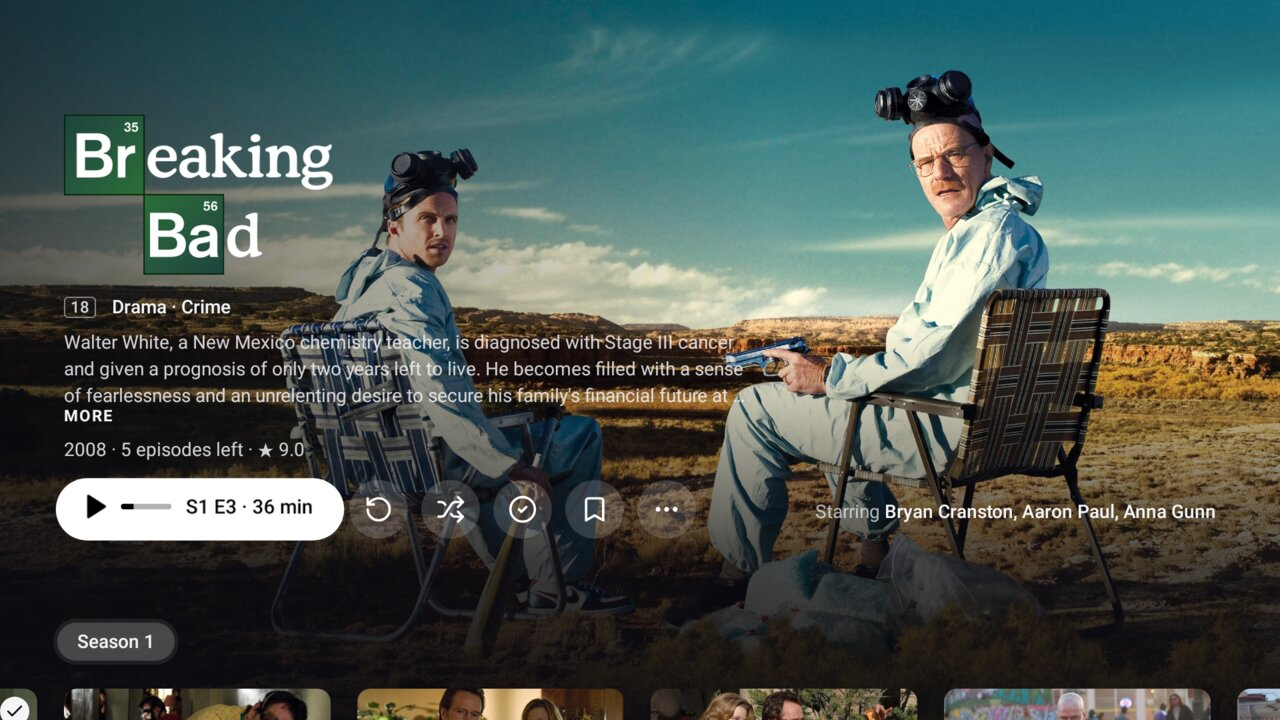
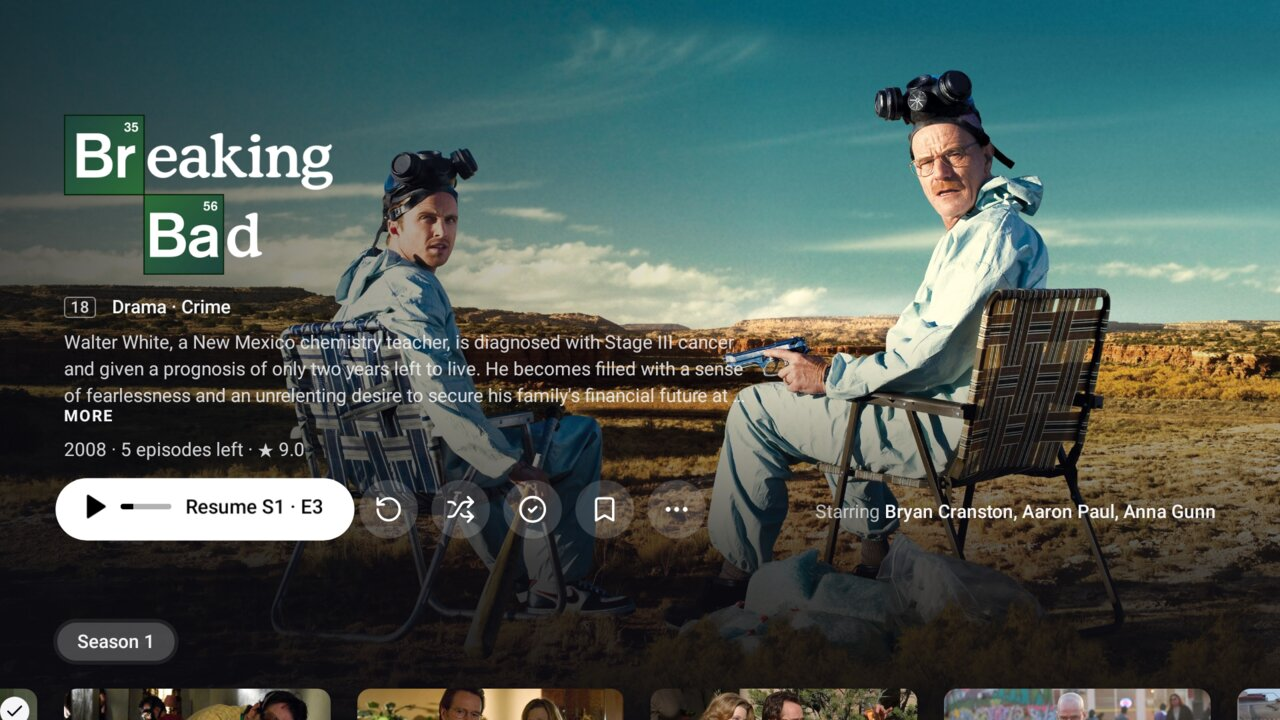
Write episode numbers as "S1 · E4" everywhere (#51)
Follows the owner's rule for every Arc app (arc-media-server#493): "S1 · E4" with "·" as the only
separator, "Special 3" for season 0, the number alone under a card's show name, and
"S1 · E4 · Pilot" where the episode is the subject.

- One helper, episodeCode(season, episode), writes the number; episodeWithTitle adds the name.
- The player's title line, the title page's Play/Resume/Start watching button, Home's hero and
  summary, and the player's Info and Episodes cards use it.
- Landscape cards no longer add the episode's name to the number line.
- Strings: new episode_special and episode_with_title; action_start_watching takes the number;
  action_play_se, action_left_episode and player_episode_line are removed.
- EpisodeNumbersTest pins the wording. The README's player and show pictures are retaken.

Changed region(s): [[0.125, 0.6722, 0.5625, 0.7639]]

diff --git a/app/src/main/java/org/arcmediaserver/android/ui/player/PlayerOsdView.kt b/app/src/main/java/org/arcmediaserver/android/ui/player/PlayerOsdView.kt
@@ -78,6 +78,8 @@ import org.arcmediaserver.android.ui.browse.runtimeText
 import org.arcmediaserver.android.ui.components.ArcIcons
 import org.arcmediaserver.android.ui.components.Artwork
 import org.arcmediaserver.android.ui.components.FormatBadges
+import org.arcmediaserver.android.ui.components.episodeCode
+import org.arcmediaserver.android.ui.components.episodeWithTitle
 import org.arcmediaserver.android.ui.components.RoundIconButton
 import org.arcmediaserver.android.ui.components.formatLabels
 import org.arcmediaserver.android.ui.components.requestWhenReady
@@ -89,7 +91,7 @@ import java.util.Locale
 
 /**
  * The controls over the picture, in the Apple TV app's arrangement (arc-apple PlayerOSD):
- * - the show's name large at the bottom left, with "S2, E4 • the episode's name" above it (a
+ * - the show's name large at the bottom left, with "S2 · E4 · the episode's name" above it (a
  *   film: its title alone), and three round buttons at the right of it: Playback, Audio and
  *   Subtitles, each opening its menu above it;
  * - the timeline, split at the chapters, with an upright marker, the time played under the marker
@@ -252,13 +254,13 @@ fun PlayerControls(
     }
 }
 
-/** "S2, E4 • Name" for an episode, else null (a film shows its title alone). */
+/** "S2 · E4 · Name" for an episode, else null (a film shows its title alone). */
 @Composable
 internal fun episodeLine(item: Item): String? {
     if (!item.isEpisode) return null
     // Outside the show's order (Arc's 0 and 0): the name alone.
-    val (s, e) = item.orderNumbers ?: return item.title
-    return stringResource(R.string.player_episode_line, s, e, item.title)
+    if (item.orderNumbers == null) return item.title
+    return episodeWithTitle(item)
 }
 
 @Composable
@@ -472,7 +474,7 @@ private fun InfoCard(state: PlayerUiState, plan: PlaybackPlan?, onRestart: () ->
             Spacer(Modifier.height(10.dp))
             Row(verticalAlignment = Alignment.CenterVertically) {
                 val parts = buildList {
-                    if (item.isEpisode) item.orderNumbers?.let { (s, e) -> add(stringResource(R.string.episode_code, s, e)) }
+                    if (item.isEpisode) item.orderNumbers?.let { (s, e) -> add(episodeCode(s, e)) }
                     item.runtimeMin?.takeIf { it > 0 }?.let { add(runtimeText(it)) }
                     infoDate(item.releaseDate)?.let(::add)
                 }
@@ -575,7 +577,7 @@ private fun EpisodesCard(state: PlayerUiState, onPlayEpisode: (Item) -> Unit, en
                                 Icon(ArcIcons.Play, contentDescription = null, tint = Color.White, modifier = Modifier.size(10.dp))
                                 Spacer(Modifier.width(5.dp))
                             }
-                            if (numbered) Text(stringResource(R.string.episode_code, s!!, e!!), style = MaterialTheme.typography.labelMedium, color = Color.White)
+                            if (numbered) Text(episodeCode(s!!, e!!), style = MaterialTheme.typography.labelMedium, color = Color.White)
                         }
                     }
                     Text(ep.title, style = MaterialTheme.typography.titleSmall, maxLines = 1, overflow = TextOverflow.Ellipsis, modifier = Modifier.padding(horizontal = 10.dp, vertical = 8.dp))

diff --git a/app/src/main/java/org/arcmediaserver/android/ui/details/DetailsScreen.kt b/app/src/main/java/org/arcmediaserver/android/ui/details/DetailsScreen.kt
@@ -89,6 +89,7 @@ import org.arcmediaserver.android.ui.components.RoundIconButton
 import org.arcmediaserver.android.ui.components.ThumbWidth
 import org.arcmediaserver.android.ui.components.WatchBadge
 import org.arcmediaserver.android.ui.components.episodeCode
+import org.arcmediaserver.android.ui.components.episodeWithTitle
 import org.arcmediaserver.android.ui.theme.ArcColors
 
 @Composable
@@ -345,7 +346,7 @@ private fun Header(
         org.arcmediaserver.android.ui.browse.TitleLogo(item, maxHeight = 120.dp, maxWidth = 460.dp, textStyle = MaterialTheme.typography.displayMedium)
         if (item.isEpisode) {
             Spacer(Modifier.height(8.dp))
-            Text(listOfNotNull(episodeCode(item), item.title).joinToString(" · "), style = MaterialTheme.typography.titleMedium)
+            Text(episodeWithTitle(item), style = MaterialTheme.typography.titleMedium)
         }
         Spacer(Modifier.height(16.dp))
         val rating = item.contentRating?.takeIf { it.isNotBlank() }
@@ -413,13 +414,13 @@ private fun Header(
                 // Outside the show's order (Arc's 0 and 0) an episode has no number to show.
                 val numbered = target.isEpisode && target.orderNumbers != null
                 val left = if (resume > 0 && duration > resume) runtimeText(((duration - resume) / 60_000).toInt().coerceAtLeast(1)) else null
-                // What will play, as the Apple TV app's labels: part watched shows a bar and
-                // what's left ("S5 E12 · 43 min" or "1 h 2 min").
+                // What will play: "Resume S1 · E4", "Start watching · S1 · E1" or "Play S1 · E4";
+                // part watched also shows a bar. A film part watched shows what's left.
                 val label = when {
-                    resume > 0 && numbered -> stringResource(R.string.action_left_episode, s!!, e!!, left ?: clock(resume))
+                    resume > 0 && numbered -> stringResource(R.string.action_resume_episode, episodeCode(s!!, e!!))
                     resume > 0 -> left ?: stringResource(R.string.action_resume, clock(resume))
-                    item.isSeries && numbered && e == 1 -> stringResource(R.string.action_start_watching, s!!, e)
-                    numbered -> stringResource(R.string.action_play_se, s!!, e!!)
+                    item.isSeries && numbered && e == 1 && s != 0 -> stringResource(R.string.action_start_watching, episodeCode(s!!, e))
+                    numbered -> stringResource(R.string.action_play_episode, episodeCode(s!!, e!!))
                     else -> stringResource(R.string.action_play)
                 }
                 val progress = if (resume > 0 && duration > 0) (resume.toFloat() / duration).coerceIn(0f, 1f) else null

diff --git a/app/src/test/java/org/arcmediaserver/android/ui/components/EpisodeNumbersTest.kt b/app/src/test/java/org/arcmediaserver/android/ui/components/EpisodeNumbersTest.kt
@@ -1,0 +1,47 @@
+package org.arcmediaserver.android.ui.components
+
+import androidx.activity.ComponentActivity
+import androidx.compose.ui.test.junit4.createAndroidComposeRule
+import androidx.test.ext.junit.runners.AndroidJUnit4
+import org.arcmediaserver.android.data.Item
+import org.junit.Assert.assertEquals
+import org.junit.Rule
+import org.junit.Test
+import org.junit.runner.RunWith
+import org.robolectric.annotation.Config
+
+/** Episode numbers as every Arc app writes them: "S1 · E4", "Special 3", "S1 · E4 · Pilot". */
+@RunWith(AndroidJUnit4::class)
+@Config(sdk = [36])
+class EpisodeNumbersTest {
+    @get:Rule
+    val compose = createAndroidComposeRule<ComponentActivity>()
+
+    private fun episode(season: Int?, number: Int?, title: String = "Pilot") =
+        Item(id = "e", kind = "episode", title = title, seriesTitle = "Show", seasonNumber = season, episodeNumber = number)
+
+    @Test
+    fun `numbers, specials and titles`() {
+        val out = mutableMapOf<String, String?>()
+        compose.setContent {
+            out["code"] = episodeCode(episode(1, 4))
+            out["double"] = episodeCode(episode(12, 10))
+            out["special"] = episodeCode(episode(0, 3))
+            out["unplaced"] = episodeCode(episode(0, 0))
+            out["withTitle"] = episodeWithTitle(episode(1, 4))
+            out["specialTitle"] = episodeWithTitle(episode(0, 3, "Behind the Scenes"))
+            out["unplacedTitle"] = episodeWithTitle(episode(0, 0))
+            out["card"] = cardSubtitle(org.arcmediaserver.android.data.cardFor(episode(1, 4)))
+        }
+        compose.waitForIdle()
+        assertEquals("S1 · E4", out["code"])
+        assertEquals("S12 · E10", out["double"])
+        assertEquals("Special 3", out["special"])
+        assertEquals(null, out["unplaced"])
+        assertEquals("S1 · E4 · Pilot", out["withTitle"])
+        assertEquals("Special 3 · Behind the Scenes", out["specialTitle"])
+        assertEquals("Pilot", out["unplacedTitle"])
+        // A card's line under the show's name is the number alone.
+        assertEquals("S1 · E4", out["card"])
+    }
+}

diff --git a/app/src/main/java/org/arcmediaserver/android/ui/components/Cards.kt b/app/src/main/java/org/arcmediaserver/android/ui/components/Cards.kt
@@ -200,13 +200,28 @@ fun cardSubtitle(card: MediaCard): String? {
     }
 }
 
+/**
+ * An episode's number, as every Arc app writes it: "S1 · E4", or "Special 3" for season 0. Only
+ * "·" separates; no leading zeros.
+ */
+@Composable
+fun episodeCode(season: Int, episode: Int): String =
+    if (season == 0) stringResource(R.string.episode_special, episode) else stringResource(R.string.episode_code, season, episode)
+
 @Composable
 fun episodeCode(item: Item): String? {
     val s = item.seasonNumber ?: return null
     val e = item.episodeNumber ?: return stringResource(R.string.season_number, s)
     // An episode outside the show's order (Arc's 0 and 0) has no number to show.
     if (s == 0 && e == 0) return null
-    return stringResource(R.string.episode_code, s, e)
+    return episodeCode(s, e)
+}
+
+/** Where the episode itself is the subject: "S1 · E4 · Pilot", or the name alone without a number. */
+@Composable
+fun episodeWithTitle(item: Item): String {
+    val code = episodeCode(item) ?: return item.title
+    return if (item.title.isBlank()) code else stringResource(R.string.episode_with_title, code, item.title)
 }
 
 /** A card's title: the show's for an episode or a season, as Plex labels them on Home. */
@@ -296,8 +311,8 @@ fun MediaCardView(
             maxLines = 1,
             overflow = TextOverflow.Ellipsis,
         )
-        val sub = cardSubtitle(card)
-        val line = if (card.item.isEpisode && landscape) listOfNotNull(sub, card.item.title.takeIf { it != cardTitle(card) }).joinToString(" · ") else sub
+        // Under the show's name an episode's card shows only its number, never its name.
+        val line = cardSubtitle(card)
         if (!line.isNullOrEmpty()) {
             Text(line, style = MaterialTheme.typography.bodySmall, color = ArcColors.Muted, maxLines = 1, overflow = TextOverflow.Ellipsis)
         }

diff --git a/app/src/main/java/org/arcmediaserver/android/ui/browse/BrowseScreen.kt b/app/src/main/java/org/arcmediaserver/android/ui/browse/BrowseScreen.kt
@@ -112,7 +112,7 @@ import org.arcmediaserver.android.ui.components.LoadingPane
 import org.arcmediaserver.android.ui.components.MediaCardView
 import org.arcmediaserver.android.ui.components.PosterWidth
 import org.arcmediaserver.android.ui.components.Spinner
-import org.arcmediaserver.android.ui.components.episodeCode
+import org.arcmediaserver.android.ui.components.episodeWithTitle
 import org.arcmediaserver.android.ui.components.text
 import org.arcmediaserver.android.ui.profiles.Avatar
 import org.arcmediaserver.android.ui.theme.ArcColors
@@ -532,7 +532,7 @@ private fun HomeHero(card: MediaCard) {
                 TitleLogo(item, maxHeight = 90.dp, maxWidth = 380.dp, textStyle = MaterialTheme.typography.displayMedium)
                 Spacer(Modifier.height(10.dp))
                 val meta = listOfNotNull(
-                    if (item.isEpisode) listOfNotNull(episodeCode(item), item.title).joinToString(" · ") else null,
+                    if (item.isEpisode) episodeWithTitle(item) else null,
                     item.year?.toString()?.takeIf { !item.isEpisode },
                     item.runtimeMin?.takeIf { it > 0 }?.let { runtimeText(it) },
                     item.genres.take(2).joinToString(", ").takeIf { it.isNotBlank() },
@@ -634,7 +634,7 @@ private fun Overview(card: MediaCard) {
         TitleSummary(
             item,
             listOfNotNull(
-                if (item.isEpisode) listOfNotNull(episodeCode(item), item.title).joinToString(" · ") else null,
+                if (item.isEpisode) episodeWithTitle(item) else null,
                 item.year?.toString()?.takeIf { !item.isEpisode },
                 item.contentRating,
                 item.runtimeMin?.takeIf { it > 0 }?.let { runtimeText(it) },

diff --git a/docs/changes/2026-11-20-episode-numbers.md b/docs/changes/2026-11-20-episode-numbers.md
@@ -1,0 +1,78 @@
+# Episode numbers written the same way everywhere
+
+The owner's rule for every Arc app (arc-media-server `docs/AGENT-RULES.md`, "Episode numbers",
+added by arc-media-server#493): an episode is "S1 · E4", with no leading zeros, no comma, and "·"
+as the only separator. A special (season 0) is "Special 3". Before this, the app wrote it four
+ways: "S1 · E4" on cards, "S1, E4 • Name" in the player, "Play S1 E8" and "S5 E12 · 43 min" on
+the title page's button, and "Start watching · S2, E1". Pictures:
+[2026-11-20-episode-numbers/](2026-11-20-episode-numbers/).
+
+## What changed
+
+- **One place writes the number:** `episodeCode(season, episode)` in `ui/components/Cards.kt`
+  gives "S1 · E4" or "Special 3". Every screen goes through it, or through
+  `episodeWithTitle(item)` ("S1 · E4 · Pilot") where the episode is the subject.
+- **Strings** (`strings.xml`):
+  - `episode_code` stays "S%1$d · E%2$d".
+  - New: `episode_special` ("Special %1$d") and `episode_with_title` ("%1$s · %2$s").
+  - `action_start_watching` is now "Start watching · %1$s".
+  - Removed: `action_play_se`, `action_left_episode` and `player_episode_line`.
+  - The existing `action_play_episode` ("Play %1$s") and `action_resume_episode`
+    ("Resume %1$s") are now used.
+- **Cards:** the line under the show's name is just "S1 · E4". Landscape episode cards (such as
+  Continue Watching as Thumbs) used to add the episode's name to that line; they don't any more.
+- **Player:**
+  - The title line is "S1 · E3 · …And the Bag's in the River" (was "S1, E3 • …").
+  - The Info card's line and the Episodes card's badges use the shared number, so a special
+    reads "Special 3".
+- **Title page:**
+  - The episode page's line under the logo is "S1 · E4 · Pilot".
+  - The Play button reads "Resume S1 · E3", "Start watching · S1 · E1" or "Play S1 · E4". A
+    special reads "Play Special 1", never "Start watching".
+- **Home:** the hero and the top-left summary read "S1 · E2 · Half Loop", through the same helper.
+- **Up Next** ("Breaking Bad · S1 · E4") was already right. It now writes specials as "Special N".
+- **Test:** `EpisodeNumbersTest` pins the wording:
+  - "S1 · E4" and "S12 · E10"
+  - "Special 3"
+  - "S1 · E4 · Pilot"
+  - an unplaced episode's name alone
+  - a card's line with the number only
+- **README:** `player.jpg` and `show-episodes.jpg` are retaken. They are the two README pictures
+  whose episode text changed. `home.jpg` is unchanged, because its Backdrop cards already showed
+  the number alone and its hero already read "S1 · E2 · Half Loop".
+
+## Decisions
+
+- **Resume button:** a part-watched episode's button was "S5 E12 · 43 min" (what's left, as the
+  Apple TV app does). Under the rule it is "Resume S5 · E12". The progress bar on the button still
+  shows how far in you are. A part-watched film still shows the time left.
+- **Title page episode list:** it shows "EPISODE 4" above each episode's name, under the season
+  tab. That label is only the episode number, with no season, so it doesn't fall under the rule and
+  is left as it is. The Episodes card in the player is also left as it is: it shows "S1 · E8" on the
+  picture with the name on its own line, so the name already has a line of its own.
+- **Episodes outside the order** (Arc's season 0, episode 0) still show no number, only their
+  name, as before.
+- **The Watch Next row on the TV's home screen** gets the numbers, not text. The launcher writes
+  them, so the app can't change how they look there.
+
+## Checks
+
+- `./gradlew assembleDebug testDebugUnitTest recordRoborazziDebug`: passed, 272 tests, 0 failed.
+  13 were skipped because the shared library wasn't running for that run: `LiveServerTest`, the
+  recorder, and `LiveScreenshotTest`'s 11 shots.
+- `LiveScreenshotTest` was then run against the shared library on arc-media-server main
+  (c49f7a6), started with `node tools/screenshots.mjs --serve`. Command:
+  `./gradlew recordRoborazziDebug --tests '*LiveScreenshotTest*'`. All 11 shots were drawn with
+  0 failed images. Those are Robolectric renders, not emulator or device captures.
+- **Pictures:** I looked at
+  - the README's Home, player and Breaking Bad renders
+  - the regular screenshots: Home, the player, Up Next, the show page's Play button and its
+    episode rows
+- **Not tried:**
+  - no emulator or device; the emulator can't run here
+  - `LiveServerTest`, because the API client is unchanged
+  - nothing about playback is claimed
+
+## Logging
+
+No logging changes.
